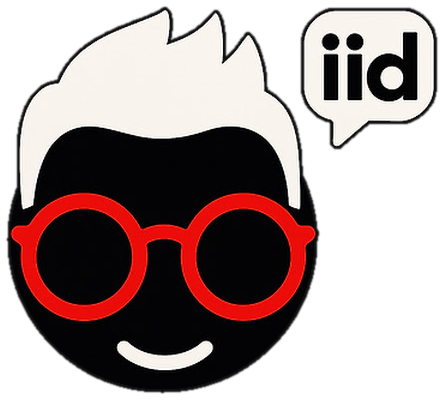
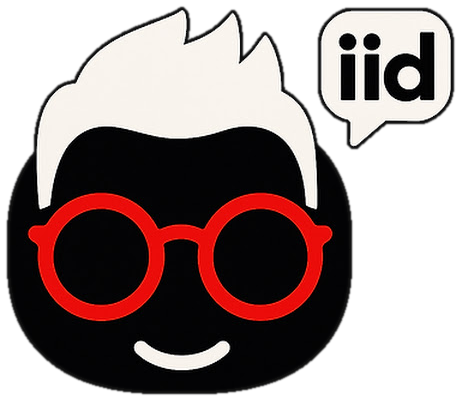
Home: rounder face for the cutout, larger single-line bubble text

diff --git a/src/app/site.css b/src/app/site.css
@@ -652,8 +652,9 @@ main{scroll-behavior:smooth}
 .site-root{
   .home__grid{grid-template-columns:minmax(0,1fr) minmax(0,1fr);gap:40px}
   .home__side{--fo:clamp(18px,min(2.1vw,3vh),24px);height:calc(4 * (2.8 * var(--fo) + 36px) + 42px);display:flex;flex-direction:column;gap:14px;align-items:flex-start}
-  .home__logo{flex:1 1 0;min-height:0;width:auto;height:auto;aspect-ratio:444/400;object-fit:contain;object-position:left center}
-  .home__quotes{flex:none;gap:12px}
-  .home__quotes li{width:fit-content;max-width:100%;white-space:nowrap;padding:12px 22px;font-size:clamp(15px,min(1.55vw,2.4vh),19px);line-height:1.4}
+  .home__logo{flex:1 1 0;min-height:0;width:auto;height:auto;aspect-ratio:461/401;object-fit:contain;object-position:left center}
+  .home__quotes{flex:none;gap:10px}
+  /* 글자는 가장 긴 문장이 한 줄에 들어가는 만큼 키운다 (화면 폭에 비례) */
+  .home__quotes li{width:fit-content;max-width:100%;white-space:nowrap;padding:10px 20px;font-size:clamp(14px,min(calc((min(100vw,1040px) - 184px) / 36),2.8vh),24px);line-height:1.4}
   @media (max-width:760px){.home__side{display:none}}
 }

diff --git a/src/app/page.tsx b/src/app/page.tsx
@@ -17,7 +17,7 @@ export default function Home() {
             <p className="lead">이드 컨설팅은 그 머뭇거림을 실행으로 바꾸는 파트너입니다. 대기업부터 스타트업, 채용부터 구조조정과 M&amp;A까지 조직의 전 주기에 걸친 의사결정 현장을 경험해왔습니다.</p>
           </div>
           <div className="home__side">
-            <Image className="home__logo" src="/iid-character-cutout.png" alt="이드(iid) 캐릭터: 빨간 안경을 쓴 얼굴과 iid 말풍선" width={444} height={400} priority />
+            <Image className="home__logo" src="/iid-character-cutout.png" alt="이드(iid) 캐릭터: 빨간 안경을 쓴 얼굴과 iid 말풍선" width={461} height={401} priority />
             <ul className="home__quotes">
             <li>“나 없어도 잘 굴러가게 만들고 싶은데…”</li>
             <li>“지금 뭘 바꿔야 할지 모르겠다. 감이 없다.”</li>
